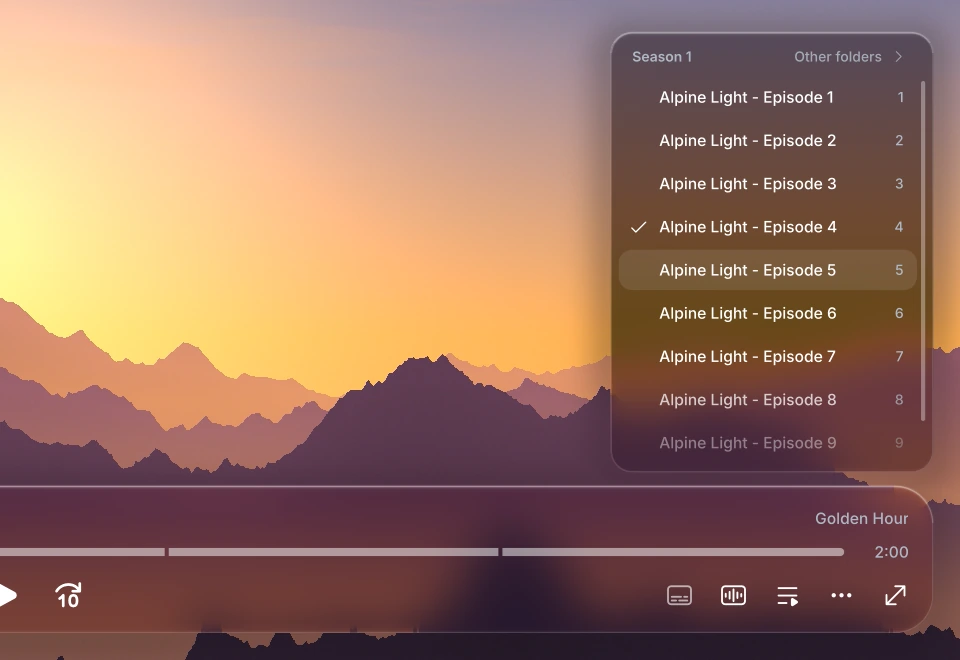
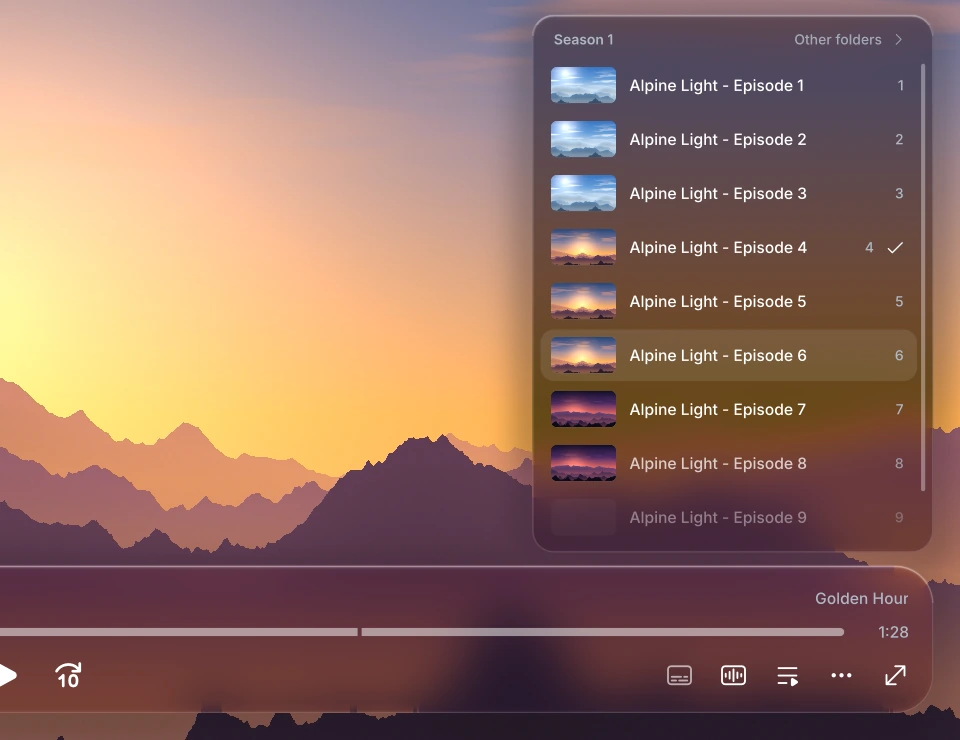
Thumbnails in the folder and playlist menus
Each video in the folder, browser and playlist menus gets a small rounded
thumbnail. Thumbz makes them: one frame from 20% into the file, rendered once
by a short-lived low-priority mpv and kept in mpv's cache folder (the oldest
are dropped past 1000). The menu draws a tile that moves with it and puts the
picture on top with overlay-add once the menu stands still.

New option: playlist_thumbnails (default yes).

diff --git a/README.md b/README.md
@@ -34,7 +34,7 @@
 - **Glass panel.** The playback controls sit on a floating panel with rounded corners. With `vo=gpu-next`, a shader blurs the video behind the panel, distorts it slightly near the edges, adds a highlight along the top edge and draws a shadow under the panel.
 - **Brightness adjustment.** Over bright video the panel is darkened and its shadow is made stronger, so white text and icons stay readable.
 - **Menus.** The audio, subtitle, playlist, chapter, speed and audio output lists open as menus above their buttons. The ⋯ button opens a menu with playback speed, chapters, audio output, loop, keep on top, screenshot and statistics.
-- **Folder playlist.** When a single file is playing, the playlist button lists the other videos in its folder in order, with Episode 10 after Episode 9. Picking one makes that folder the playlist, so the next and previous buttons and the end of an episode follow the folder. **Other folders** in the list's title row opens a browser for picking videos from any other folder.
+- **Folder playlist.** When a single file is playing, the playlist button lists the other videos in its folder in order, with Episode 10 after Episode 9, each with a small thumbnail. Picking one makes that folder the playlist, so the next and previous buttons and the end of an episode follow the folder. **Other folders** in the list's title row opens a browser for picking videos from any other folder.
 - **Thumbz.** A seekbar thumbnailer written for ModernGlass that shows a preview frame above the seekbar while you hover it. See [Thumbz](#thumbz) for how it works and how it compares to Thumbfast.
 - **Size.** The controls scale with the window up to a maximum size (`vidscale_max`), which is multiplied by the system's display scaling. On large monitors they stay the size they have on a 1080p screen.
 - **Accessibility options.** `glass_reduce_transparency` makes the panels nearly opaque, `glass_increase_contrast` makes them black with a visible border, and `reduce_motion` turns off the spring and scale animations.
@@ -61,11 +61,11 @@
   </tr>
   <tr>
     <td width="50%"><img src="assets/menu-folder.webp" alt="The other videos in the playing file's folder"></td>
-    <td width="50%"><img src="assets/menu-folders.webp" alt="Folder browser"></td>
+    <td width="50%"><img src="assets/menu-season.webp" alt="Another folder opened from the folder browser"></td>
   </tr>
   <tr>
     <td align="center"><sub>Videos in the same folder</sub></td>
-    <td align="center"><sub>Other folders</sub></td>
+    <td align="center"><sub>Another folder, opened from Other folders</sub></td>
   </tr>
 </table>
 
@@ -109,6 +109,8 @@
 </p>
 
 Thumbz is a seekbar thumbnailer written for ModernGlass, as a replacement for Thumbfast. It renders thumbnails in a second mpv that runs in the background. When the controls appear, it starts on thumbnails spread across the whole file. While you move along the seekbar it shows the closest finished one, and when you stop it renders the exact frame. Thumbnails are kept until the file changes.
+
+Thumbz also makes the small thumbnails in the folder and playlist menus. Each one is a frame from 20% into the file, made once and kept in mpv's cache folder, so a folder opened before shows them straight away.
 
 | | Thumbfast | Thumbz |
 | --- | :---: | :---: |

diff --git a/docs/USER_OPTS.md b/docs/USER_OPTS.md
@@ -153,6 +153,7 @@ These options apply to the default layout's panel and to the menus, tooltips, th
 | panel_max_width           | 0       | widest the floating panel gets (`0` = always full width)                                                                                         |
 | muted_text_color          | #AEB7C4 | color of secondary text: duration, chapter title, menu details                                                                                   |
 | modern_menus              | yes     | show track, playlist, chapter and audio output lists as glass menus instead of mpv's select lists                                                |
+| playlist_thumbnails | yes | small thumbnails beside the videos in the folder and playlist menus (made by Thumbz) |
 | menu_max_items            | 9       | rows a menu shows before it scrolls                                                                                                              |
 
 ### Colors and style
